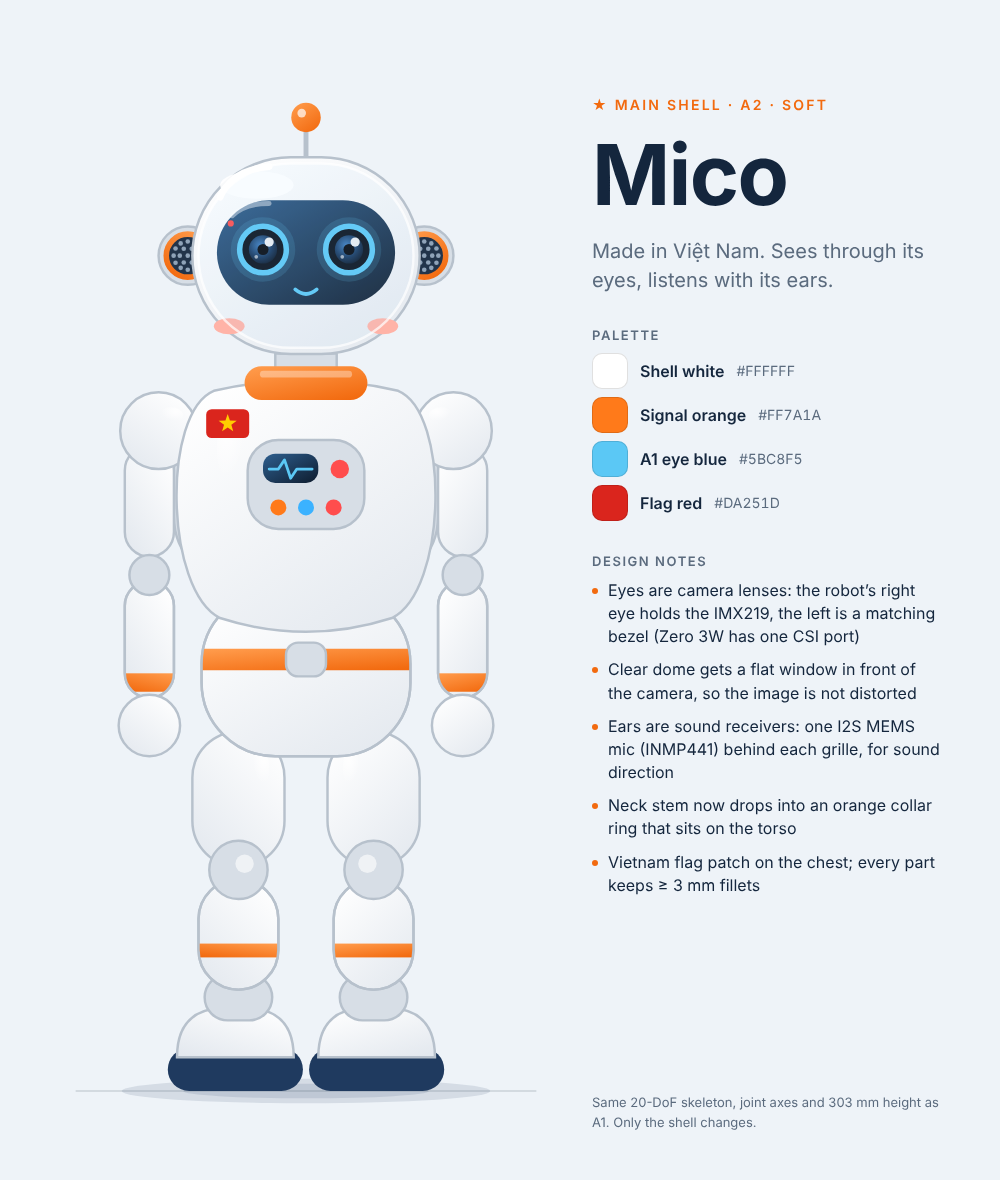
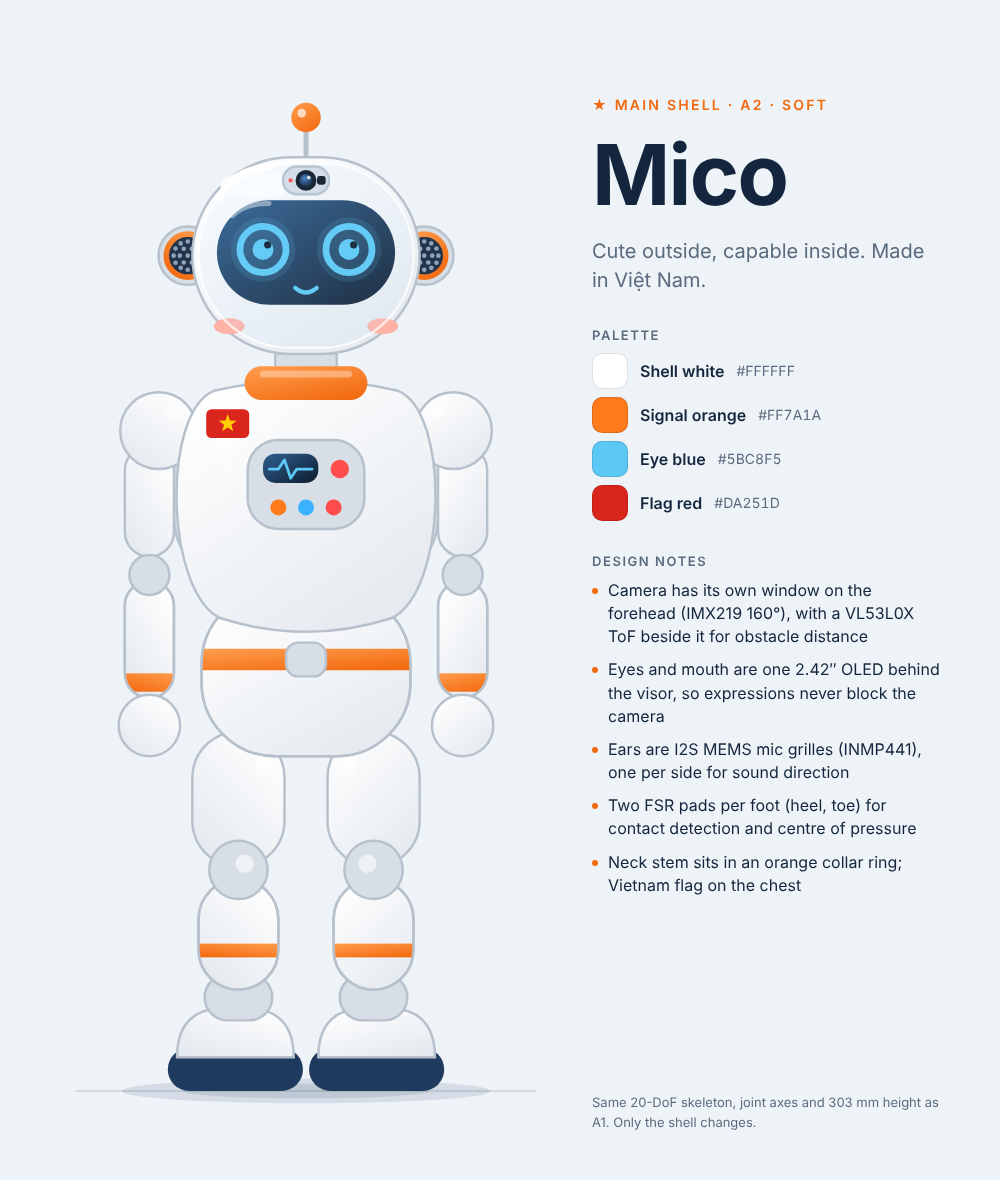
docs(design): Mico v2.0 head with camera window, ToF and OLED face

diff --git a/docs/design/sketch_shell_a/A2_Mico.dc.html b/docs/design/sketch_shell_a/A2_Mico.dc.html
@@ -15,31 +15,31 @@ body{margin:0}
 </style>
 </helmet>
 <div style="width: 1000px; height: 1180px; box-sizing: border-box; padding: 56px 56px 48px; background: #EEF3F8; display: flex; gap: 36px; font-family: Inter, system-ui, sans-serif; color: #14263D">
-<svg viewBox="-80 -6 160 351" width="500" height="1078" role="img" aria-label="A2 Mico: Made in Việt Nam. Sees through its eyes, listens with its ears." style="flex: none">
+<svg viewBox="-80 -6 160 351" width="500" height="1078" role="img" aria-label="A2 Mico: Cute outside, capable inside. Made in Việt Nam." style="flex: none">
 <defs><linearGradient id="mi_sh" x1="0.15" y1="0" x2="0.85" y2="1"><stop offset="0" stop-color="#FFFFFF"></stop><stop offset="1" stop-color="#E4E9EF"></stop></linearGradient><linearGradient id="mi_ac" x1="0.15" y1="0" x2="0.85" y2="1"><stop offset="0" stop-color="#FF9A4A"></stop><stop offset="1" stop-color="#F26A0F"></stop></linearGradient><linearGradient id="mi_vi" x1="0" y1="0" x2="1" y2="1"><stop offset="0" stop-color="#2E5F8F"></stop><stop offset="1" stop-color="#0E1C2E"></stop></linearGradient><radialGradient id="mi_gl" cx="0.3" cy="0.25" r="0.6"><stop offset="0" stop-color="#FFFFFF" stop-opacity="0.9"></stop><stop offset="1" stop-color="#FFFFFF" stop-opacity="0"></stop></radialGradient><radialGradient id="mi_lens" cx="0.4" cy="0.35" r="0.7"><stop offset="0" stop-color="#3C7DBF"></stop><stop offset="0.6" stop-color="#173A63"></stop><stop offset="1" stop-color="#0A1A2E"></stop></radialGradient><clipPath id="mi_shin" clipPathUnits="userSpaceOnUse"><rect x="9" y="262" width="26" height="36" rx="13"></rect></clipPath><clipPath id="mi_fore" clipPathUnits="userSpaceOnUse"><rect x="43" y="165" width="16" height="38" rx="8"></rect></clipPath><clipPath id="mi_pel" clipPathUnits="userSpaceOnUse"><rect x="-34" y="168" width="68" height="54" rx="24"></rect></clipPath></defs>
 <line x1="-75" x2="75" y1="331" y2="331" stroke="#14263D" stroke-opacity="0.12" stroke-width="0.6"></line>
-<ellipse cx="0" cy="331" rx="60" ry="4" fill="#1F3A5F" fill-opacity="0.12"></ellipse><ellipse cx="0" cy="331" rx="40" ry="2.4" fill="#1F3A5F" fill-opacity="0.12"></ellipse><rect x="-43" y="106" width="86" height="60" rx="22" fill="#D7DEE6" stroke="#B7C1CC" stroke-width="0.8"></rect><g><rect x="1" y="317" width="44" height="14" rx="7" fill="#1F3A5F"></rect><path d="M 4 320 Q 4 305 18 304 L 28 304 Q 42 305 42 320 Z" fill="url(#mi_sh)" stroke="#B7C1CC" stroke-width="0.8"></path><rect x="11" y="293" width="22" height="15" rx="7.5" fill="#D7DEE6" stroke="#B7C1CC" stroke-width="0.8"></rect><rect x="9" y="262" width="26" height="36" rx="13" fill="url(#mi_sh)" stroke="#B7C1CC" stroke-width="0.8"></rect><g clip-path="url(#mi_shin)"><rect x="8" y="283" width="28" height="4.5" fill="url(#mi_ac)"></rect></g><rect x="9" y="262" width="26" height="36" rx="13" fill="none" stroke="#B7C1CC" stroke-width="0.8"></rect><rect x="7" y="214" width="30" height="44" rx="15" fill="url(#mi_sh)" stroke="#B7C1CC" stroke-width="0.8"></rect><ellipse cx="15" cy="226" rx="3" ry="7" fill="url(#mi_gl)"></ellipse><circle cx="22" cy="259" r="9.5" fill="#D7DEE6" stroke="#B7C1CC" stroke-width="0.8"></circle><circle cx="20" cy="257" r="3" fill="#FFFFFF" fill-opacity="0.6"></circle><rect x="43" y="121" width="16" height="36" rx="8" fill="url(#mi_sh)" stroke="#B7C1CC" stroke-width="0.8"></rect><rect x="43" y="165" width="16" height="38" rx="8" fill="url(#mi_sh)" stroke="#B7C1CC" stroke-width="0.8"></rect><g clip-path="url(#mi_fore)"><rect x="42" y="195" width="18" height="6" fill="url(#mi_ac)"></rect></g><rect x="43" y="165" width="16" height="38" rx="8" fill="none" stroke="#B7C1CC" stroke-width="0.8"></rect><circle cx="51" cy="163" r="6.5" fill="#D7DEE6" stroke="#B7C1CC" stroke-width="0.8"></circle><circle cx="51" cy="212" r="10" fill="url(#mi_sh)" stroke="#B7C1CC" stroke-width="0.8"></circle><circle cx="48" cy="116" r="12.5" fill="url(#mi_sh)" stroke="#B7C1CC" stroke-width="0.8"></circle><ellipse cx="44" cy="111" rx="4" ry="2.6" fill="url(#mi_gl)"></ellipse><circle cx="38.5" cy="59" r="9.5" fill="#D7DEE6" stroke="#B7C1CC" stroke-width="0.8"></circle><circle cx="38.5" cy="59" r="7" fill="#22344A" stroke="url(#mi_ac)" stroke-width="1.8"></circle><circle cx="38.50" cy="59.00" r="0.75" fill="#8FA3B8"></circle><circle cx="41.10" cy="59.00" r="0.75" fill="#8FA3B8"></circle><circle cx="39.80" cy="61.25" r="0.75" fill="#8FA3B8"></circle><circle cx="37.20" cy="61.25" r="0.75" fill="#8FA3B8"></circle><circle cx="35.90" cy="59.00" r="0.75" fill="#8FA3B8"></circle><circle cx="37.20" cy="56.75" r="0.75" fill="#8FA3B8"></circle><circle cx="39.80" cy="56.75" r="0.75" fill="#8FA3B8"></circle><circle cx="43.10" cy="59.00" r="0.75" fill="#8FA3B8"></circle><circle cx="42.48" cy="61.30" r="0.75" fill="#8FA3B8"></circle><circle cx="40.80" cy="62.98" r="0.75" fill="#8FA3B8"></circle><circle cx="38.50" cy="63.60" r="0.75" fill="#8FA3B8"></circle><circle cx="36.20" cy="62.98" r="0.75" fill="#8FA3B8"></circle><circle cx="34.52" cy="61.30" r="0.75" fill="#8FA3B8"></circle><circle cx="33.90" cy="59.00" r="0.75" fill="#8FA3B8"></circle><circle cx="34.52" cy="56.70" r="0.75" fill="#8FA3B8"></circle><circle cx="36.20" cy="55.02" r="0.75" fill="#8FA3B8"></circle><circle cx="38.50" cy="54.40" r="0.75" fill="#8FA3B8"></circle><circle cx="40.80" cy="55.02" r="0.75" fill="#8FA3B8"></circle><circle cx="42.48" cy="56.70" r="0.75" fill="#8FA3B8"></circle></g><g transform="scale(-1 1)"><rect x="1" y="317" width="44" height="14" rx="7" fill="#1F3A5F"></rect><path d="M 4 320 Q 4 305 18 304 L 28 304 Q 42 305 42 320 Z" fill="url(#mi_sh)" stroke="#B7C1CC" stroke-width="0.8"></path><rect x="11" y="293" width="22" height="15" rx="7.5" fill="#D7DEE6" stroke="#B7C1CC" stroke-width="0.8"></rect><rect x="9" y="262" width="26" height="36" rx="13" fill="url(#mi_sh)" stroke="#B7C1CC" stroke-width="0.8"></rect><g clip-path="url(#mi_shin)"><rect x="8" y="283" width="28" height="4.5" fill="url(#mi_ac)"></rect></g><rect x="9" y="262" width="26" height="36" rx="13" fill="none" stroke="#B7C1CC" stroke-width="0.8"></rect><rect x="7" y="214" width="30" height="44" rx="15" fill="url(#mi_sh)" stroke="#B7C1CC" stroke-width="0.8"></rect><ellipse cx="15" cy="226" rx="3" ry="7" fill="url(#mi_gl)"></ellipse><circle cx="22" cy="259" r="9.5" fill="#D7DEE6" stroke="#B7C1CC" stroke-width="0.8"></circle><circle cx="20" cy="257" r="3" fill="#FFFFFF" fill-opacity="0.6"></circle><rect x="43" y="121" width="16" height="36" rx="8" fill="url(#mi_sh)" stroke="#B7C1CC" stroke-width="0.8"></rect><rect x="43" y="165" width="16" height="38" rx="8" fill="url(#mi_sh)" stroke="#B7C1CC" stroke-width="0.8"></rect><g clip-path="url(#mi_fore)"><rect x="42" y="195" width="18" height="6" fill="url(#mi_ac)"></rect></g><rect x="43" y="165" width="16" height="38" rx="8" fill="none" stroke="#B7C1CC" stroke-width="0.8"></rect><circle cx="51" cy="163" r="6.5" fill="#D7DEE6" stroke="#B7C1CC" stroke-width="0.8"></circle><circle cx="51" cy="212" r="10" fill="url(#mi_sh)" stroke="#B7C1CC" stroke-width="0.8"></circle><circle cx="48" cy="116" r="12.5" fill="url(#mi_sh)" stroke="#B7C1CC" stroke-width="0.8"></circle><ellipse cx="44" cy="111" rx="4" ry="2.6" fill="url(#mi_gl)"></ellipse><circle cx="38.5" cy="59" r="9.5" fill="#D7DEE6" stroke="#B7C1CC" stroke-width="0.8"></circle><circle cx="38.5" cy="59" r="7" fill="#22344A" stroke="url(#mi_ac)" stroke-width="1.8"></circle><circle cx="38.50" cy="59.00" r="0.75" fill="#8FA3B8"></circle><circle cx="41.10" cy="59.00" r="0.75" fill="#8FA3B8"></circle><circle cx="39.80" cy="61.25" r="0.75" fill="#8FA3B8"></circle><circle cx="37.20" cy="61.25" r="0.75" fill="#8FA3B8"></circle><circle cx="35.90" cy="59.00" r="0.75" fill="#8FA3B8"></circle><circle cx="37.20" cy="56.75" r="0.75" fill="#8FA3B8"></circle><circle cx="39.80" cy="56.75" r="0.75" fill="#8FA3B8"></circle><circle cx="43.10" cy="59.00" r="0.75" fill="#8FA3B8"></circle><circle cx="42.48" cy="61.30" r="0.75" fill="#8FA3B8"></circle><circle cx="40.80" cy="62.98" r="0.75" fill="#8FA3B8"></circle><circle cx="38.50" cy="63.60" r="0.75" fill="#8FA3B8"></circle><circle cx="36.20" cy="62.98" r="0.75" fill="#8FA3B8"></circle><circle cx="34.52" cy="61.30" r="0.75" fill="#8FA3B8"></circle><circle cx="33.90" cy="59.00" r="0.75" fill="#8FA3B8"></circle><circle cx="34.52" cy="56.70" r="0.75" fill="#8FA3B8"></circle><circle cx="36.20" cy="55.02" r="0.75" fill="#8FA3B8"></circle><circle cx="38.50" cy="54.40" r="0.75" fill="#8FA3B8"></circle><circle cx="40.80" cy="55.02" r="0.75" fill="#8FA3B8"></circle><circle cx="42.48" cy="56.70" r="0.75" fill="#8FA3B8"></circle></g><rect x="-34" y="168" width="68" height="54" rx="24" fill="url(#mi_sh)" stroke="#B7C1CC" stroke-width="0.8"></rect><g clip-path="url(#mi_pel)"><rect x="-35" y="187" width="70" height="7" fill="url(#mi_ac)"></rect></g><rect x="-34" y="168" width="68" height="54" rx="24" fill="none" stroke="#B7C1CC" stroke-width="0.8"></rect><rect x="-6.5" y="185" width="13" height="11" rx="4" fill="#D7DEE6" stroke="#B7C1CC" stroke-width="0.8"></rect><rect x="-10" y="84" width="20" height="22" rx="7" fill="#D7DEE6" stroke="#B7C1CC" stroke-width="0.8"></rect><path d="M -10 91 H 10 M -10 96 H 10" stroke="#B7C1CC" stroke-width="0.6"></path><path d="M -30 103 C -47 110 -46 168 -28 177 Q 0 186 28 177 C 46 168 47 110 30 103 Q 0 96 -30 103 Z" fill="url(#mi_sh)" stroke="#B7C1CC" stroke-width="0.8"></path><ellipse cx="-24" cy="122" rx="5" ry="13" fill="url(#mi_gl)"></ellipse><rect x="-19" y="119" width="38" height="29" rx="10" fill="#D7DEE6" stroke="#B7C1CC" stroke-width="0.8"></rect><rect x="-14" y="123.5" width="18" height="9.5" rx="4" fill="url(#mi_vi)"></rect><path d="M -12 128.5 h 3 l 2 -3 l 2 6 l 2 -3 h 5" fill="none" stroke="#5BC8F5" stroke-width="0.9" stroke-linecap="round" stroke-linejoin="round"></path><circle cx="11" cy="128.5" r="3" fill="#FF4D4D"></circle><circle cx="-9" cy="141" r="2.6" fill="#FF7A1A"></circle><circle cx="0" cy="141" r="2.6" fill="#3BB2FF"></circle><circle cx="9" cy="141" r="2.6" fill="#FF4D4D"></circle><rect x="-32.5" y="109" width="14" height="9.4" rx="1.8" fill="#DA251D"></rect><polygon points="-25.50,110.60 -24.77,112.69 -22.55,112.74 -24.31,114.09 -23.68,116.21 -25.50,114.95 -27.32,116.21 -26.69,114.09 -28.45,112.74 -26.23,112.69" fill="#FFCD00"></polygon><rect x="-20" y="95" width="40" height="11" rx="5.5" fill="url(#mi_ac)"></rect><rect x="-15" y="96.5" width="30" height="2.2" rx="1.1" fill="#FFFFFF" fill-opacity="0.35"></rect><line x1="0" y1="27" x2="0" y2="17" stroke="#B7C1CC" stroke-width="1.6" stroke-linecap="round"></line><circle cx="0" cy="14" r="4.8" fill="url(#mi_ac)"></circle><circle cx="-1.4" cy="12.6" r="1.4" fill="#FFFFFF" fill-opacity="0.7"></circle><rect x="-37" y="27" width="74" height="64" rx="32" fill="url(#mi_sh)" stroke="#B7C1CC" stroke-width="0.8"></rect><ellipse cx="-16" cy="36" rx="12" ry="4.5" fill="#FFFFFF" fill-opacity="0.9"></ellipse><rect x="-29" y="41" width="58" height="34" rx="17" fill="url(#mi_vi)"></rect><circle cx="-14" cy="57" r="10.5" fill="#5BC8F5" fill-opacity="0.16"></circle><circle cx="-14" cy="57" r="7.6" fill="#08111D" stroke="#5BC8F5" stroke-width="1.8"></circle><circle cx="-14" cy="57" r="4.6" fill="url(#mi_lens)"></circle><circle cx="-14" cy="57" r="1.8" fill="#040810"></circle><circle cx="-12" cy="54.6" r="1.5" fill="#FFFFFF" fill-opacity="0.9"></circle><circle cx="-16.2" cy="59.4" r="0.6" fill="#FFFFFF" fill-opacity="0.6"></circle><circle cx="14" cy="57" r="10.5" fill="#5BC8F5" fill-opacity="0.16"></circle><circle cx="14" cy="57" r="7.6" fill="#08111D" stroke="#5BC8F5" stroke-width="1.8"></circle><circle cx="14" cy="57" r="4.6" fill="url(#mi_lens)"></circle><circle cx="14" cy="57" r="1.8" fill="#040810"></circle><circle cx="16" cy="54.6" r="1.5" fill="#FFFFFF" fill-opacity="0.9"></circle><circle cx="11.8" cy="59.4" r="0.6" fill="#FFFFFF" fill-opacity="0.6"></circle><circle cx="-24.5" cy="48.5" r="1" fill="#FF4D4D"></circle><path d="M -3.5 70 Q 0 73 3.5 70" fill="none" stroke="#5BC8F5" stroke-width="1.2" stroke-linecap="round"></path><path d="M -24 46 Q -20 42 -12 42" fill="none" stroke="#FFFFFF" stroke-opacity="0.45" stroke-width="1.6" stroke-linecap="round"></path><ellipse cx="25" cy="82" rx="5" ry="2.6" fill="#FFB3A7"></ellipse><ellipse cx="-25" cy="82" rx="5" ry="2.6" fill="#FFB3A7"></ellipse><rect x="-35" y="29" width="70" height="60" rx="30" fill="#BFE6FF" fill-opacity="0.10" stroke="#FFFFFF" stroke-opacity="0.7" stroke-width="0.8"></rect><path d="M -28 40 Q -24 31 -12 30" fill="none" stroke="#FFFFFF" stroke-width="2.2" stroke-linecap="round"></path>
+<ellipse cx="0" cy="331" rx="60" ry="4" fill="#1F3A5F" fill-opacity="0.12"></ellipse><ellipse cx="0" cy="331" rx="40" ry="2.4" fill="#1F3A5F" fill-opacity="0.12"></ellipse><rect x="-43" y="106" width="86" height="60" rx="22" fill="#D7DEE6" stroke="#B7C1CC" stroke-width="0.8"></rect><g><rect x="1" y="317" width="44" height="14" rx="7" fill="#1F3A5F"></rect><path d="M 4 320 Q 4 305 18 304 L 28 304 Q 42 305 42 320 Z" fill="url(#mi_sh)" stroke="#B7C1CC" stroke-width="0.8"></path><rect x="11" y="293" width="22" height="15" rx="7.5" fill="#D7DEE6" stroke="#B7C1CC" stroke-width="0.8"></rect><rect x="9" y="262" width="26" height="36" rx="13" fill="url(#mi_sh)" stroke="#B7C1CC" stroke-width="0.8"></rect><g clip-path="url(#mi_shin)"><rect x="8" y="283" width="28" height="4.5" fill="url(#mi_ac)"></rect></g><rect x="9" y="262" width="26" height="36" rx="13" fill="none" stroke="#B7C1CC" stroke-width="0.8"></rect><rect x="7" y="214" width="30" height="44" rx="15" fill="url(#mi_sh)" stroke="#B7C1CC" stroke-width="0.8"></rect><ellipse cx="15" cy="226" rx="3" ry="7" fill="url(#mi_gl)"></ellipse><circle cx="22" cy="259" r="9.5" fill="#D7DEE6" stroke="#B7C1CC" stroke-width="0.8"></circle><circle cx="20" cy="257" r="3" fill="#FFFFFF" fill-opacity="0.6"></circle><rect x="43" y="121" width="16" height="36" rx="8" fill="url(#mi_sh)" stroke="#B7C1CC" stroke-width="0.8"></rect><rect x="43" y="165" width="16" height="38" rx="8" fill="url(#mi_sh)" stroke="#B7C1CC" stroke-width="0.8"></rect><g clip-path="url(#mi_fore)"><rect x="42" y="195" width="18" height="6" fill="url(#mi_ac)"></rect></g><rect x="43" y="165" width="16" height="38" rx="8" fill="none" stroke="#B7C1CC" stroke-width="0.8"></rect><circle cx="51" cy="163" r="6.5" fill="#D7DEE6" stroke="#B7C1CC" stroke-width="0.8"></circle><circle cx="51" cy="212" r="10" fill="url(#mi_sh)" stroke="#B7C1CC" stroke-width="0.8"></circle><circle cx="48" cy="116" r="12.5" fill="url(#mi_sh)" stroke="#B7C1CC" stroke-width="0.8"></circle><ellipse cx="44" cy="111" rx="4" ry="2.6" fill="url(#mi_gl)"></ellipse><circle cx="38.5" cy="59" r="9.5" fill="#D7DEE6" stroke="#B7C1CC" stroke-width="0.8"></circle><circle cx="38.5" cy="59" r="7" fill="#22344A" stroke="url(#mi_ac)" stroke-width="1.8"></circle><circle cx="38.50" cy="59.00" r="0.75" fill="#8FA3B8"></circle><circle cx="41.10" cy="59.00" r="0.75" fill="#8FA3B8"></circle><circle cx="39.80" cy="61.25" r="0.75" fill="#8FA3B8"></circle><circle cx="37.20" cy="61.25" r="0.75" fill="#8FA3B8"></circle><circle cx="35.90" cy="59.00" r="0.75" fill="#8FA3B8"></circle><circle cx="37.20" cy="56.75" r="0.75" fill="#8FA3B8"></circle><circle cx="39.80" cy="56.75" r="0.75" fill="#8FA3B8"></circle><circle cx="43.10" cy="59.00" r="0.75" fill="#8FA3B8"></circle><circle cx="42.48" cy="61.30" r="0.75" fill="#8FA3B8"></circle><circle cx="40.80" cy="62.98" r="0.75" fill="#8FA3B8"></circle><circle cx="38.50" cy="63.60" r="0.75" fill="#8FA3B8"></circle><circle cx="36.20" cy="62.98" r="0.75" fill="#8FA3B8"></circle><circle cx="34.52" cy="61.30" r="0.75" fill="#8FA3B8"></circle><circle cx="33.90" cy="59.00" r="0.75" fill="#8FA3B8"></circle><circle cx="34.52" cy="56.70" r="0.75" fill="#8FA3B8"></circle><circle cx="36.20" cy="55.02" r="0.75" fill="#8FA3B8"></circle><circle cx="38.50" cy="54.40" r="0.75" fill="#8FA3B8"></circle><circle cx="40.80" cy="55.02" r="0.75" fill="#8FA3B8"></circle><circle cx="42.48" cy="56.70" r="0.75" fill="#8FA3B8"></circle></g><g transform="scale(-1 1)"><rect x="1" y="317" width="44" height="14" rx="7" fill="#1F3A5F"></rect><path d="M 4 320 Q 4 305 18 304 L 28 304 Q 42 305 42 320 Z" fill="url(#mi_sh)" stroke="#B7C1CC" stroke-width="0.8"></path><rect x="11" y="293" width="22" height="15" rx="7.5" fill="#D7DEE6" stroke="#B7C1CC" stroke-width="0.8"></rect><rect x="9" y="262" width="26" height="36" rx="13" fill="url(#mi_sh)" stroke="#B7C1CC" stroke-width="0.8"></rect><g clip-path="url(#mi_shin)"><rect x="8" y="283" width="28" height="4.5" fill="url(#mi_ac)"></rect></g><rect x="9" y="262" width="26" height="36" rx="13" fill="none" stroke="#B7C1CC" stroke-width="0.8"></rect><rect x="7" y="214" width="30" height="44" rx="15" fill="url(#mi_sh)" stroke="#B7C1CC" stroke-width="0.8"></rect><ellipse cx="15" cy="226" rx="3" ry="7" fill="url(#mi_gl)"></ellipse><circle cx="22" cy="259" r="9.5" fill="#D7DEE6" stroke="#B7C1CC" stroke-width="0.8"></circle><circle cx="20" cy="257" r="3" fill="#FFFFFF" fill-opacity="0.6"></circle><rect x="43" y="121" width="16" height="36" rx="8" fill="url(#mi_sh)" stroke="#B7C1CC" stroke-width="0.8"></rect><rect x="43" y="165" width="16" height="38" rx="8" fill="url(#mi_sh)" stroke="#B7C1CC" stroke-width="0.8"></rect><g clip-path="url(#mi_fore)"><rect x="42" y="195" width="18" height="6" fill="url(#mi_ac)"></rect></g><rect x="43" y="165" width="16" height="38" rx="8" fill="none" stroke="#B7C1CC" stroke-width="0.8"></rect><circle cx="51" cy="163" r="6.5" fill="#D7DEE6" stroke="#B7C1CC" stroke-width="0.8"></circle><circle cx="51" cy="212" r="10" fill="url(#mi_sh)" stroke="#B7C1CC" stroke-width="0.8"></circle><circle cx="48" cy="116" r="12.5" fill="url(#mi_sh)" stroke="#B7C1CC" stroke-width="0.8"></circle><ellipse cx="44" cy="111" rx="4" ry="2.6" fill="url(#mi_gl)"></ellipse><circle cx="38.5" cy="59" r="9.5" fill="#D7DEE6" stroke="#B7C1CC" stroke-width="0.8"></circle><circle cx="38.5" cy="59" r="7" fill="#22344A" stroke="url(#mi_ac)" stroke-width="1.8"></circle><circle cx="38.50" cy="59.00" r="0.75" fill="#8FA3B8"></circle><circle cx="41.10" cy="59.00" r="0.75" fill="#8FA3B8"></circle><circle cx="39.80" cy="61.25" r="0.75" fill="#8FA3B8"></circle><circle cx="37.20" cy="61.25" r="0.75" fill="#8FA3B8"></circle><circle cx="35.90" cy="59.00" r="0.75" fill="#8FA3B8"></circle><circle cx="37.20" cy="56.75" r="0.75" fill="#8FA3B8"></circle><circle cx="39.80" cy="56.75" r="0.75" fill="#8FA3B8"></circle><circle cx="43.10" cy="59.00" r="0.75" fill="#8FA3B8"></circle><circle cx="42.48" cy="61.30" r="0.75" fill="#8FA3B8"></circle><circle cx="40.80" cy="62.98" r="0.75" fill="#8FA3B8"></circle><circle cx="38.50" cy="63.60" r="0.75" fill="#8FA3B8"></circle><circle cx="36.20" cy="62.98" r="0.75" fill="#8FA3B8"></circle><circle cx="34.52" cy="61.30" r="0.75" fill="#8FA3B8"></circle><circle cx="33.90" cy="59.00" r="0.75" fill="#8FA3B8"></circle><circle cx="34.52" cy="56.70" r="0.75" fill="#8FA3B8"></circle><circle cx="36.20" cy="55.02" r="0.75" fill="#8FA3B8"></circle><circle cx="38.50" cy="54.40" r="0.75" fill="#8FA3B8"></circle><circle cx="40.80" cy="55.02" r="0.75" fill="#8FA3B8"></circle><circle cx="42.48" cy="56.70" r="0.75" fill="#8FA3B8"></circle></g><rect x="-34" y="168" width="68" height="54" rx="24" fill="url(#mi_sh)" stroke="#B7C1CC" stroke-width="0.8"></rect><g clip-path="url(#mi_pel)"><rect x="-35" y="187" width="70" height="7" fill="url(#mi_ac)"></rect></g><rect x="-34" y="168" width="68" height="54" rx="24" fill="none" stroke="#B7C1CC" stroke-width="0.8"></rect><rect x="-6.5" y="185" width="13" height="11" rx="4" fill="#D7DEE6" stroke="#B7C1CC" stroke-width="0.8"></rect><rect x="-10" y="84" width="20" height="22" rx="7" fill="#D7DEE6" stroke="#B7C1CC" stroke-width="0.8"></rect><path d="M -10 91 H 10 M -10 96 H 10" stroke="#B7C1CC" stroke-width="0.6"></path><path d="M -30 103 C -47 110 -46 168 -28 177 Q 0 186 28 177 C 46 168 47 110 30 103 Q 0 96 -30 103 Z" fill="url(#mi_sh)" stroke="#B7C1CC" stroke-width="0.8"></path><ellipse cx="-24" cy="122" rx="5" ry="13" fill="url(#mi_gl)"></ellipse><rect x="-19" y="119" width="38" height="29" rx="10" fill="#D7DEE6" stroke="#B7C1CC" stroke-width="0.8"></rect><rect x="-14" y="123.5" width="18" height="9.5" rx="4" fill="url(#mi_vi)"></rect><path d="M -12 128.5 h 3 l 2 -3 l 2 6 l 2 -3 h 5" fill="none" stroke="#5BC8F5" stroke-width="0.9" stroke-linecap="round" stroke-linejoin="round"></path><circle cx="11" cy="128.5" r="3" fill="#FF4D4D"></circle><circle cx="-9" cy="141" r="2.6" fill="#FF7A1A"></circle><circle cx="0" cy="141" r="2.6" fill="#3BB2FF"></circle><circle cx="9" cy="141" r="2.6" fill="#FF4D4D"></circle><rect x="-32.5" y="109" width="14" height="9.4" rx="1.8" fill="#DA251D"></rect><polygon points="-25.50,110.60 -24.77,112.69 -22.55,112.74 -24.31,114.09 -23.68,116.21 -25.50,114.95 -27.32,116.21 -26.69,114.09 -28.45,112.74 -26.23,112.69" fill="#FFCD00"></polygon><rect x="-20" y="95" width="40" height="11" rx="5.5" fill="url(#mi_ac)"></rect><rect x="-15" y="96.5" width="30" height="2.2" rx="1.1" fill="#FFFFFF" fill-opacity="0.35"></rect><line x1="0" y1="27" x2="0" y2="17" stroke="#B7C1CC" stroke-width="1.6" stroke-linecap="round"></line><circle cx="0" cy="14" r="4.8" fill="url(#mi_ac)"></circle><circle cx="-1.4" cy="12.6" r="1.4" fill="#FFFFFF" fill-opacity="0.7"></circle><rect x="-37" y="27" width="74" height="64" rx="32" fill="url(#mi_sh)" stroke="#B7C1CC" stroke-width="0.8"></rect><ellipse cx="-16" cy="36" rx="12" ry="4.5" fill="#FFFFFF" fill-opacity="0.9"></ellipse><rect x="-7.5" y="30" width="15" height="9" rx="4.5" fill="#D7DEE6" stroke="#B7C1CC" stroke-width="0.8"></rect><circle cx="0" cy="34.5" r="3.4" fill="#08111D"></circle><circle cx="0" cy="34.5" r="2.1" fill="url(#mi_lens)"></circle><circle cx="0.9" cy="33.6" r="0.6" fill="#FFFFFF" fill-opacity="0.85"></circle><circle cx="-5" cy="34.5" r="0.7" fill="#FF4D4D"></circle><rect x="3.6" y="33.1" width="2.8" height="2.8" rx="0.8" fill="#08111D"></rect><rect x="-29" y="41" width="58" height="34" rx="17" fill="url(#mi_vi)"></rect><circle cx="-14" cy="57" r="10.5" fill="#5BC8F5" fill-opacity="0.14"></circle><circle cx="-14" cy="57" r="7.5" fill="none" stroke="#5BC8F5" stroke-width="2.2"></circle><circle cx="-14" cy="57" r="3.4" fill="#5BC8F5"></circle><circle cx="-12.47" cy="55.47" r="1.19" fill="#0E1C2E"></circle><circle cx="14" cy="57" r="10.5" fill="#5BC8F5" fill-opacity="0.14"></circle><circle cx="14" cy="57" r="7.5" fill="none" stroke="#5BC8F5" stroke-width="2.2"></circle><circle cx="14" cy="57" r="3.4" fill="#5BC8F5"></circle><circle cx="15.53" cy="55.47" r="1.19" fill="#0E1C2E"></circle><path d="M -3.5 69.5 Q 0 72.5 3.5 69.5" fill="none" stroke="#5BC8F5" stroke-width="1.4" stroke-linecap="round"></path><path d="M -24 46 Q -20 42 -12 42" fill="none" stroke="#FFFFFF" stroke-opacity="0.45" stroke-width="1.6" stroke-linecap="round"></path><ellipse cx="25" cy="82" rx="5" ry="2.6" fill="#FFB3A7"></ellipse><ellipse cx="-25" cy="82" rx="5" ry="2.6" fill="#FFB3A7"></ellipse><rect x="-35" y="29" width="70" height="60" rx="30" fill="#BFE6FF" fill-opacity="0.10" stroke="#FFFFFF" stroke-opacity="0.7" stroke-width="0.8"></rect><path d="M -28 40 Q -24 31 -12 30" fill="none" stroke="#FFFFFF" stroke-width="2.2" stroke-linecap="round"></path>
 </svg>
 <div style="flex: 1 1 0; min-width: 0; display: flex; flex-direction: column; gap: 22px; padding-top: 40px">
 <p style="margin: 0; font-size: 14px; font-weight: 600; letter-spacing: 0.16em; color: #F26A0F">★ MAIN SHELL · A2 · SOFT</p>
 <h1 style="margin: 0; font-family: 'Space Grotesk', Inter, sans-serif; font-size: 84px; line-height: 0.95; font-weight: 700; letter-spacing: -0.02em">Mico</h1>
-<p style="margin: 0; font-size: 20px; line-height: 1.45; color: #5B6B7E">Made in Việt Nam. Sees through its eyes, listens with its ears.</p>
+<p style="margin: 0; font-size: 20px; line-height: 1.45; color: #5B6B7E">Cute outside, capable inside. Made in Việt Nam.</p>
 <div style="display: flex; flex-direction: column; gap: 10px; padding-top: 10px">
 <p style="margin: 0; font-size: 13px; font-weight: 600; letter-spacing: 0.12em; color: #5B6B7E">PALETTE</p>
 <div style="display: flex; flex-direction: column; gap: 8px">
 <div style="display: flex; align-items: center; gap: 12px"><span style="width: 34px; height: 34px; border-radius: 10px; background: #FFFFFF; border: 1px solid rgba(0,0,0,0.12); flex: none"></span><span style="font-size: 16px; font-weight: 600">Shell white</span><span style="font-size: 14px; color: #5B6B7E; font-variant-numeric: tabular-nums">#FFFFFF</span></div>
 <div style="display: flex; align-items: center; gap: 12px"><span style="width: 34px; height: 34px; border-radius: 10px; background: #FF7A1A; border: 1px solid rgba(0,0,0,0.12); flex: none"></span><span style="font-size: 16px; font-weight: 600">Signal orange</span><span style="font-size: 14px; color: #5B6B7E; font-variant-numeric: tabular-nums">#FF7A1A</span></div>
-<div style="display: flex; align-items: center; gap: 12px"><span style="width: 34px; height: 34px; border-radius: 10px; background: #5BC8F5; border: 1px solid rgba(0,0,0,0.12); flex: none"></span><span style="font-size: 16px; font-weight: 600">A1 eye blue</span><span style="font-size: 14px; color: #5B6B7E; font-variant-numeric: tabular-nums">#5BC8F5</span></div>
+<div style="display: flex; align-items: center; gap: 12px"><span style="width: 34px; height: 34px; border-radius: 10px; background: #5BC8F5; border: 1px solid rgba(0,0,0,0.12); flex: none"></span><span style="font-size: 16px; font-weight: 600">Eye blue</span><span style="font-size: 14px; color: #5B6B7E; font-variant-numeric: tabular-nums">#5BC8F5</span></div>
 <div style="display: flex; align-items: center; gap: 12px"><span style="width: 34px; height: 34px; border-radius: 10px; background: #DA251D; border: 1px solid rgba(0,0,0,0.12); flex: none"></span><span style="font-size: 16px; font-weight: 600">Flag red</span><span style="font-size: 14px; color: #5B6B7E; font-variant-numeric: tabular-nums">#DA251D</span></div>
 </div>
 </div>
 <div style="display: flex; flex-direction: column; gap: 10px; padding-top: 10px">
 <p style="margin: 0; font-size: 13px; font-weight: 600; letter-spacing: 0.12em; color: #5B6B7E">DESIGN NOTES</p>
-<div style="display: flex; gap: 10px; font-size: 16px; line-height: 1.45"><span style="width: 6px; height: 6px; border-radius: 3px; background: #F26A0F; flex: none; margin-top: 9px"></span><span>Eyes are camera lenses: the robot’s right eye holds the IMX219, the left is a matching bezel (Zero 3W has one CSI port)</span></div>
-<div style="display: flex; gap: 10px; font-size: 16px; line-height: 1.45"><span style="width: 6px; height: 6px; border-radius: 3px; background: #F26A0F; flex: none; margin-top: 9px"></span><span>Clear dome gets a flat window in front of the camera, so the image is not distorted</span></div>
-<div style="display: flex; gap: 10px; font-size: 16px; line-height: 1.45"><span style="width: 6px; height: 6px; border-radius: 3px; background: #F26A0F; flex: none; margin-top: 9px"></span><span>Ears are sound receivers: one I2S MEMS mic (INMP441) behind each grille, for sound direction</span></div>
-<div style="display: flex; gap: 10px; font-size: 16px; line-height: 1.45"><span style="width: 6px; height: 6px; border-radius: 3px; background: #F26A0F; flex: none; margin-top: 9px"></span><span>Neck stem now drops into an orange collar ring that sits on the torso</span></div>
-<div style="display: flex; gap: 10px; font-size: 16px; line-height: 1.45"><span style="width: 6px; height: 6px; border-radius: 3px; background: #F26A0F; flex: none; margin-top: 9px"></span><span>Vietnam flag patch on the chest; every part keeps ≥ 3 mm fillets</span></div>
+<div style="display: flex; gap: 10px; font-size: 16px; line-height: 1.45"><span style="width: 6px; height: 6px; border-radius: 3px; background: #F26A0F; flex: none; margin-top: 9px"></span><span>Camera has its own window on the forehead (IMX219 160°), with a VL53L0X ToF beside it for obstacle distance</span></div>
+<div style="display: flex; gap: 10px; font-size: 16px; line-height: 1.45"><span style="width: 6px; height: 6px; border-radius: 3px; background: #F26A0F; flex: none; margin-top: 9px"></span><span>Eyes and mouth are one 2.42″ OLED behind the visor, so expressions never block the camera</span></div>
+<div style="display: flex; gap: 10px; font-size: 16px; line-height: 1.45"><span style="width: 6px; height: 6px; border-radius: 3px; background: #F26A0F; flex: none; margin-top: 9px"></span><span>Ears are I2S MEMS mic grilles (INMP441), one per side for sound direction</span></div>
+<div style="display: flex; gap: 10px; font-size: 16px; line-height: 1.45"><span style="width: 6px; height: 6px; border-radius: 3px; background: #F26A0F; flex: none; margin-top: 9px"></span><span>Two FSR pads per foot (heel, toe) for contact detection and centre of pressure</span></div>
+<div style="display: flex; gap: 10px; font-size: 16px; line-height: 1.45"><span style="width: 6px; height: 6px; border-radius: 3px; background: #F26A0F; flex: none; margin-top: 9px"></span><span>Neck stem sits in an orange collar ring; Vietnam flag on the chest</span></div>
 </div>
 <p style="margin: auto 0 0; font-size: 13px; line-height: 1.5; color: #5B6B7E">Same 20-DoF skeleton, joint axes and 303 mm height as A1. Only the shell changes.</p>
 </div>
